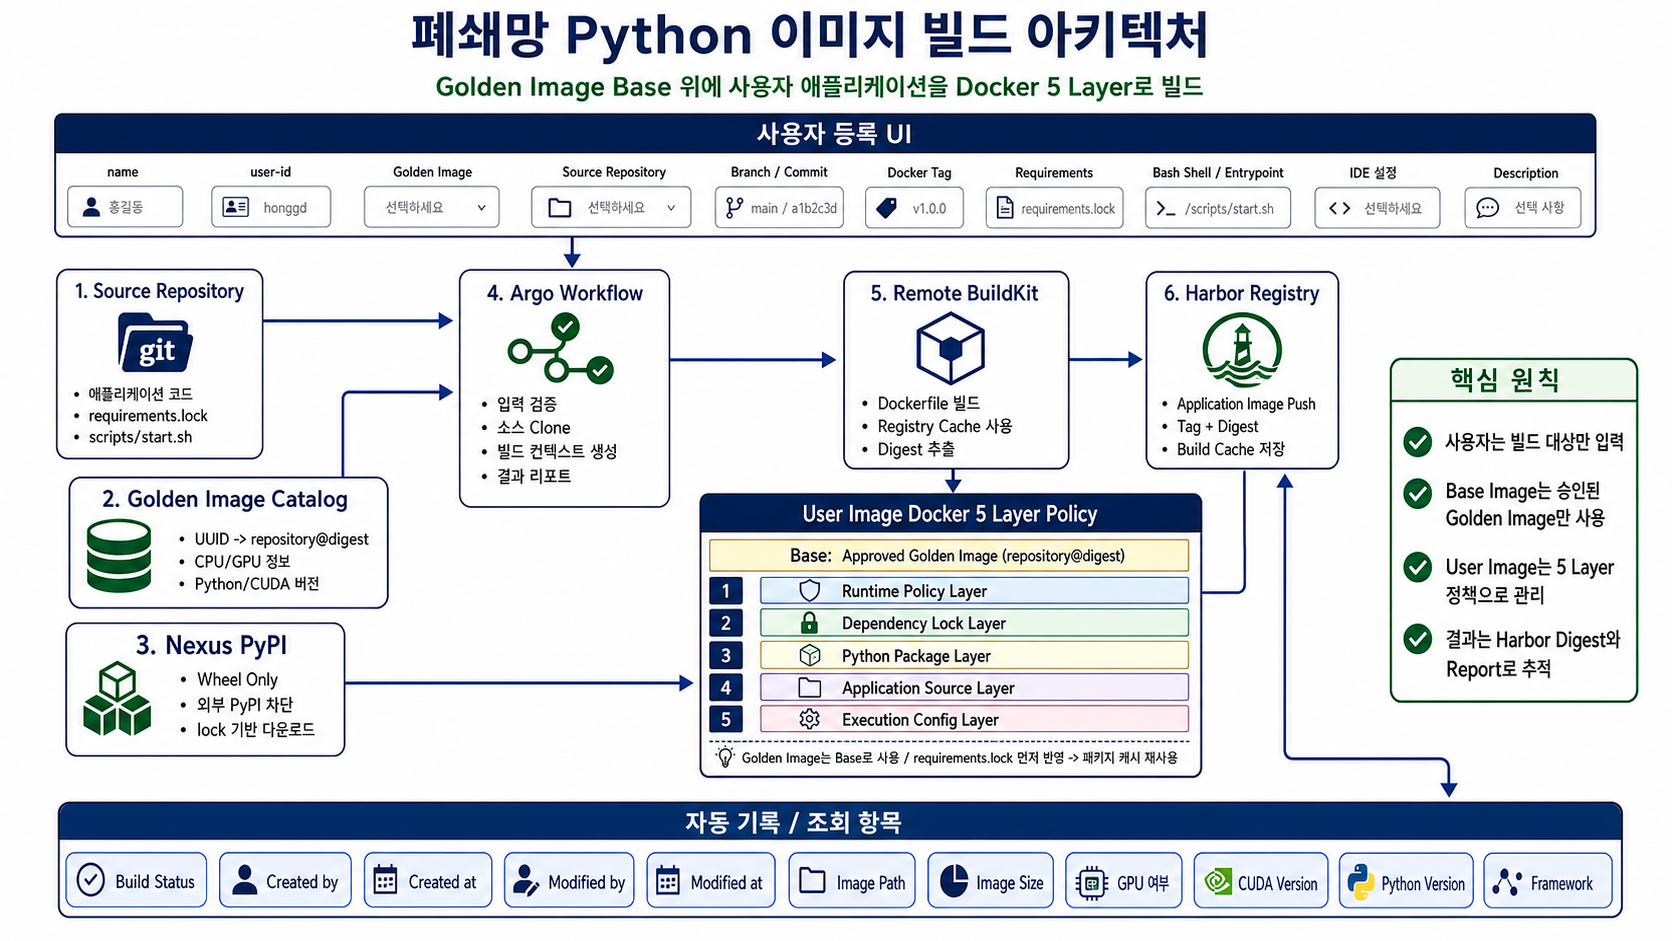
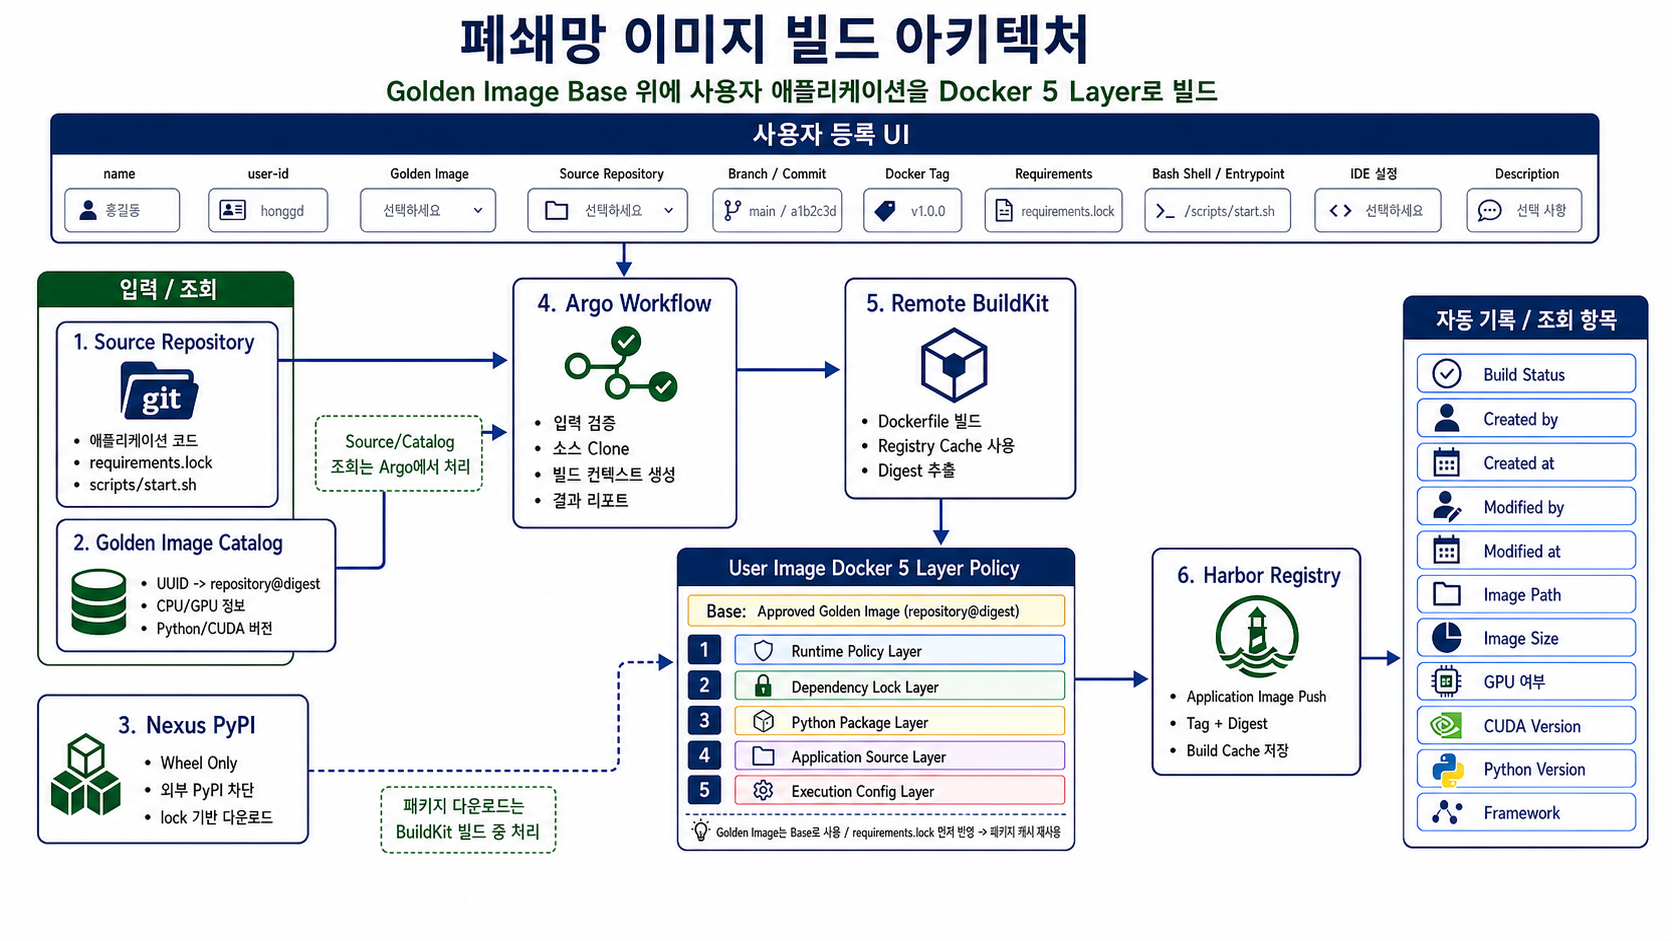
Update architecture diagram flow

Changed region(s): [[0.0, 0.0, 0.9952, 0.9862]]

diff --git a/docs/explanation-guide.md b/docs/explanation-guide.md
@@ -12,7 +12,7 @@
 
 이 구조에서는 사용자가 Base Image를 직접 고르지 않습니다. 운영에서 승인한 Golden Image UUID만 선택하고, Workflow가 Catalog에서 해당 UUID를 Harbor `repository@sha256:digest`로 변환해 빌드합니다.
 
-![폐쇄망 Python 이미지 빌드 아키텍처](images/python-image-build-architecture.png)
+![폐쇄망 이미지 빌드 아키텍처](images/python-image-build-architecture.png)
 
 ## 전체 흐름
 

diff --git a/docs/operational-workflow-improvement.md b/docs/operational-workflow-improvement.md
@@ -2,7 +2,7 @@
 
 첨부된 운영 Workflow 문법을 기준으로, 폐쇄망 Python Image Builder를 빠르게 적용할 수 있도록 Golden Image Base와 User Image 5 Layer 구조로 축소한 개선 방향입니다.
 
-![폐쇄망 Python 이미지 빌드 아키텍처](images/python-image-build-architecture.png)
+![폐쇄망 이미지 빌드 아키텍처](images/python-image-build-architecture.png)
 
 ## 반영한 운영 문법
 

diff --git a/README.md b/README.md
@@ -25,7 +25,7 @@
 - [User Image Workflow](workflows/user-image-build.yaml)
 - [운영형 Workflow 개선 포인트](docs/operational-workflow-improvement.md)
 
-![폐쇄망 Python 이미지 빌드 아키텍처](docs/images/python-image-build-architecture.png)
+![폐쇄망 이미지 빌드 아키텍처](docs/images/python-image-build-architecture.png)
 
 ## 필요한 구조
 
